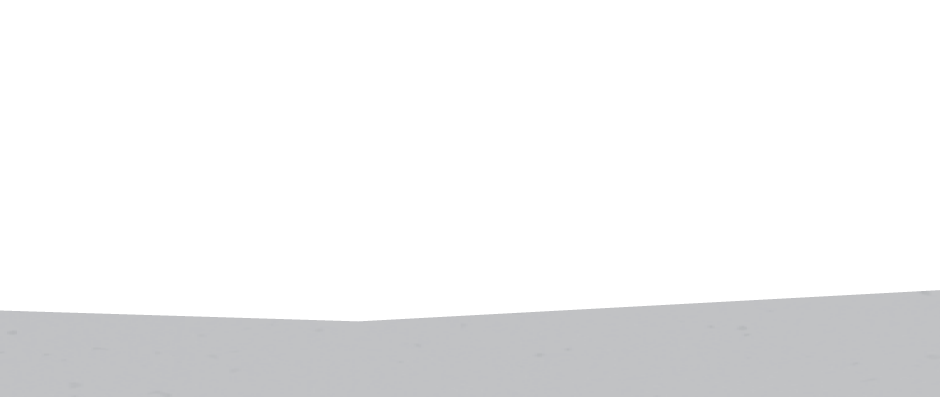
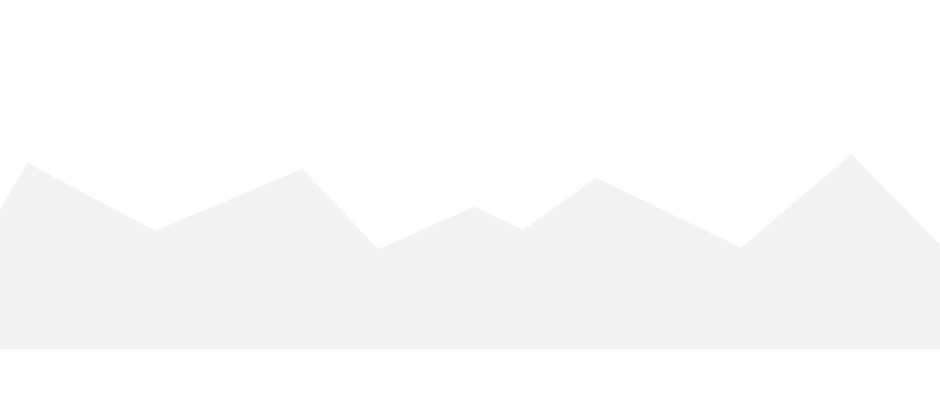
Updated puzzle1 + ferriswheel animation

Changed region(s): [[0.0, 0.72, 1.0, 1.0]]

diff --git a/style/main.less b/style/main.less
@@ -27,7 +27,7 @@ body, html {
   width: 100%;
   height: 100%;
   
-  background: #fff;
+  background-image: url("../@{pathImages}/background.png");
   
   .background {
     width: 100%;
@@ -37,11 +37,41 @@ body, html {
   }
 }
 
+@puzzle1: "puzzle1";
 @puzzle2: "puzzle2";
 
 .object {
   display: block;
   position: absolute;
+  
+  &.ferriswheel {
+    width: 197px;
+    height: 192px;
+    
+    left: 10px;
+    top: 105px;
+    
+    background-image: url("../@{pathImages}/@{puzzle1}/ferriswheel.png");
+  }
+  
+  &.ferriswheel-platform, &.haudenlukas, &.tent {
+    width: 100%;
+    height: 100%;
+    background-position: center;
+  }
+  
+  &.ferriswheel-platform {
+    background-image: url("../@{pathImages}/@{puzzle1}/ferriswheel_platform.png");
+  }
+  
+  &.haudenlukas {
+    background-image: url("../@{pathImages}/@{puzzle1}/haudenlukas.png");
+  }
+  
+  &.tent {
+    background-image: url("../@{pathImages}/@{puzzle1}/tent.png");
+  }
+  
   
   &.pinwheel {
     @objectName: "pinwheel"; 

diff --git a/assets/scenes/puzzle1/puzzle1.js b/assets/scenes/puzzle1/puzzle1.js
@@ -9,7 +9,20 @@ function(sender, localization) {
 		backgrounds.push(Lyria.Resource.name([sender, backgroundName + i + '.png'].join('/'), 'image'));
 	}
 	
+	
+	var angle = 0;
+	
+	function update(dt) {
+		angle += 0.33;
+		if (angle == 360.0) {
+			angle = 0;
+		}
+		
+		$('.ferriswheel').rotate(angle);
+	}
+	
 	return {
-		backgrounds: backgrounds
+		backgrounds: backgrounds,
+		update: update
 	}
 }

diff --git a/assets/scenes/puzzle1/puzzle1.html b/assets/scenes/puzzle1/puzzle1.html
@@ -1,3 +1,9 @@
 {{#backgrounds}}
 <div class="background" style="background-image: url('{{.}}')"></div>
 {{/backgrounds}}
+
+<div class="object ferriswheel"></div>
+<div class="object ferriswheel-platform"></div>
+<div class="object tent"></div>
+<div class="object haudenlukas"></div>
+<div class="object haudenlukas-ball"></div>
